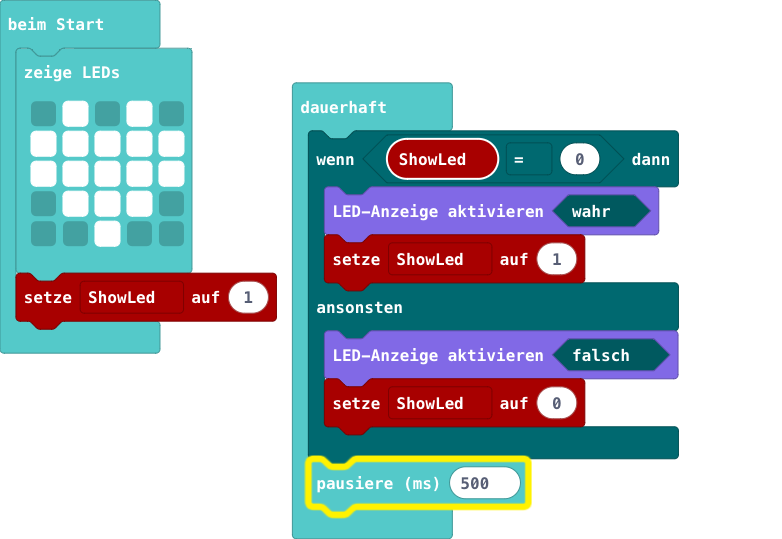
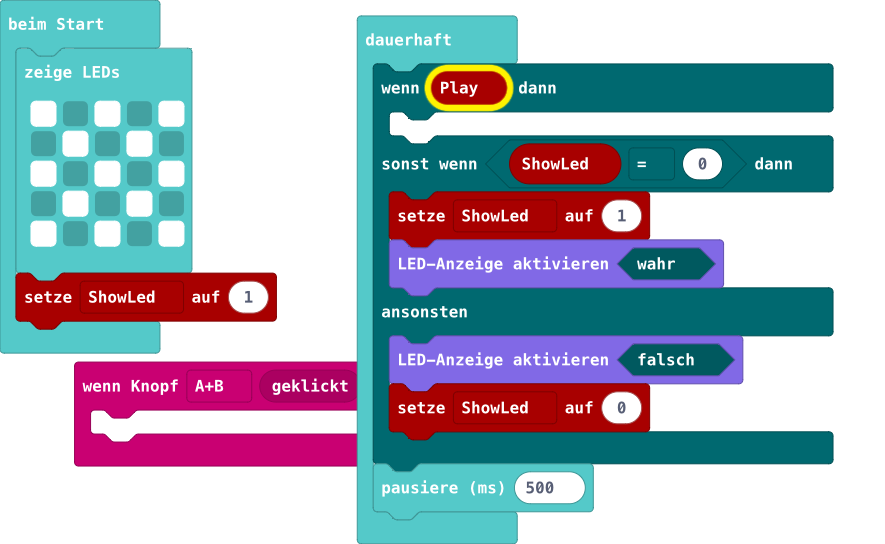
Aktualisiere main.blocks, main.ts

diff --git a/main.ts b/main.ts
@@ -1,15 +1,21 @@
+input.onButtonEvent(Button.AB, input.buttonEventClick(), function () {
+	
+})
 basic.showLeds(`
+    # . # . #
     . # . # .
-    # # # # #
-    # # # # #
-    . # # # .
-    . . # . .
+    # . # . #
+    . # . # .
+    # . # . #
     `)
 let ShowLed = 1
 basic.forever(function () {
-    if (ShowLed == 0) {
-        led.enable(true)
+    let Play = 0
+    if (Play) {
+    	
+    } else if (ShowLed == 0) {
         ShowLed = 1
+        led.enable(true)
     } else {
         led.enable(false)
         ShowLed = 0
